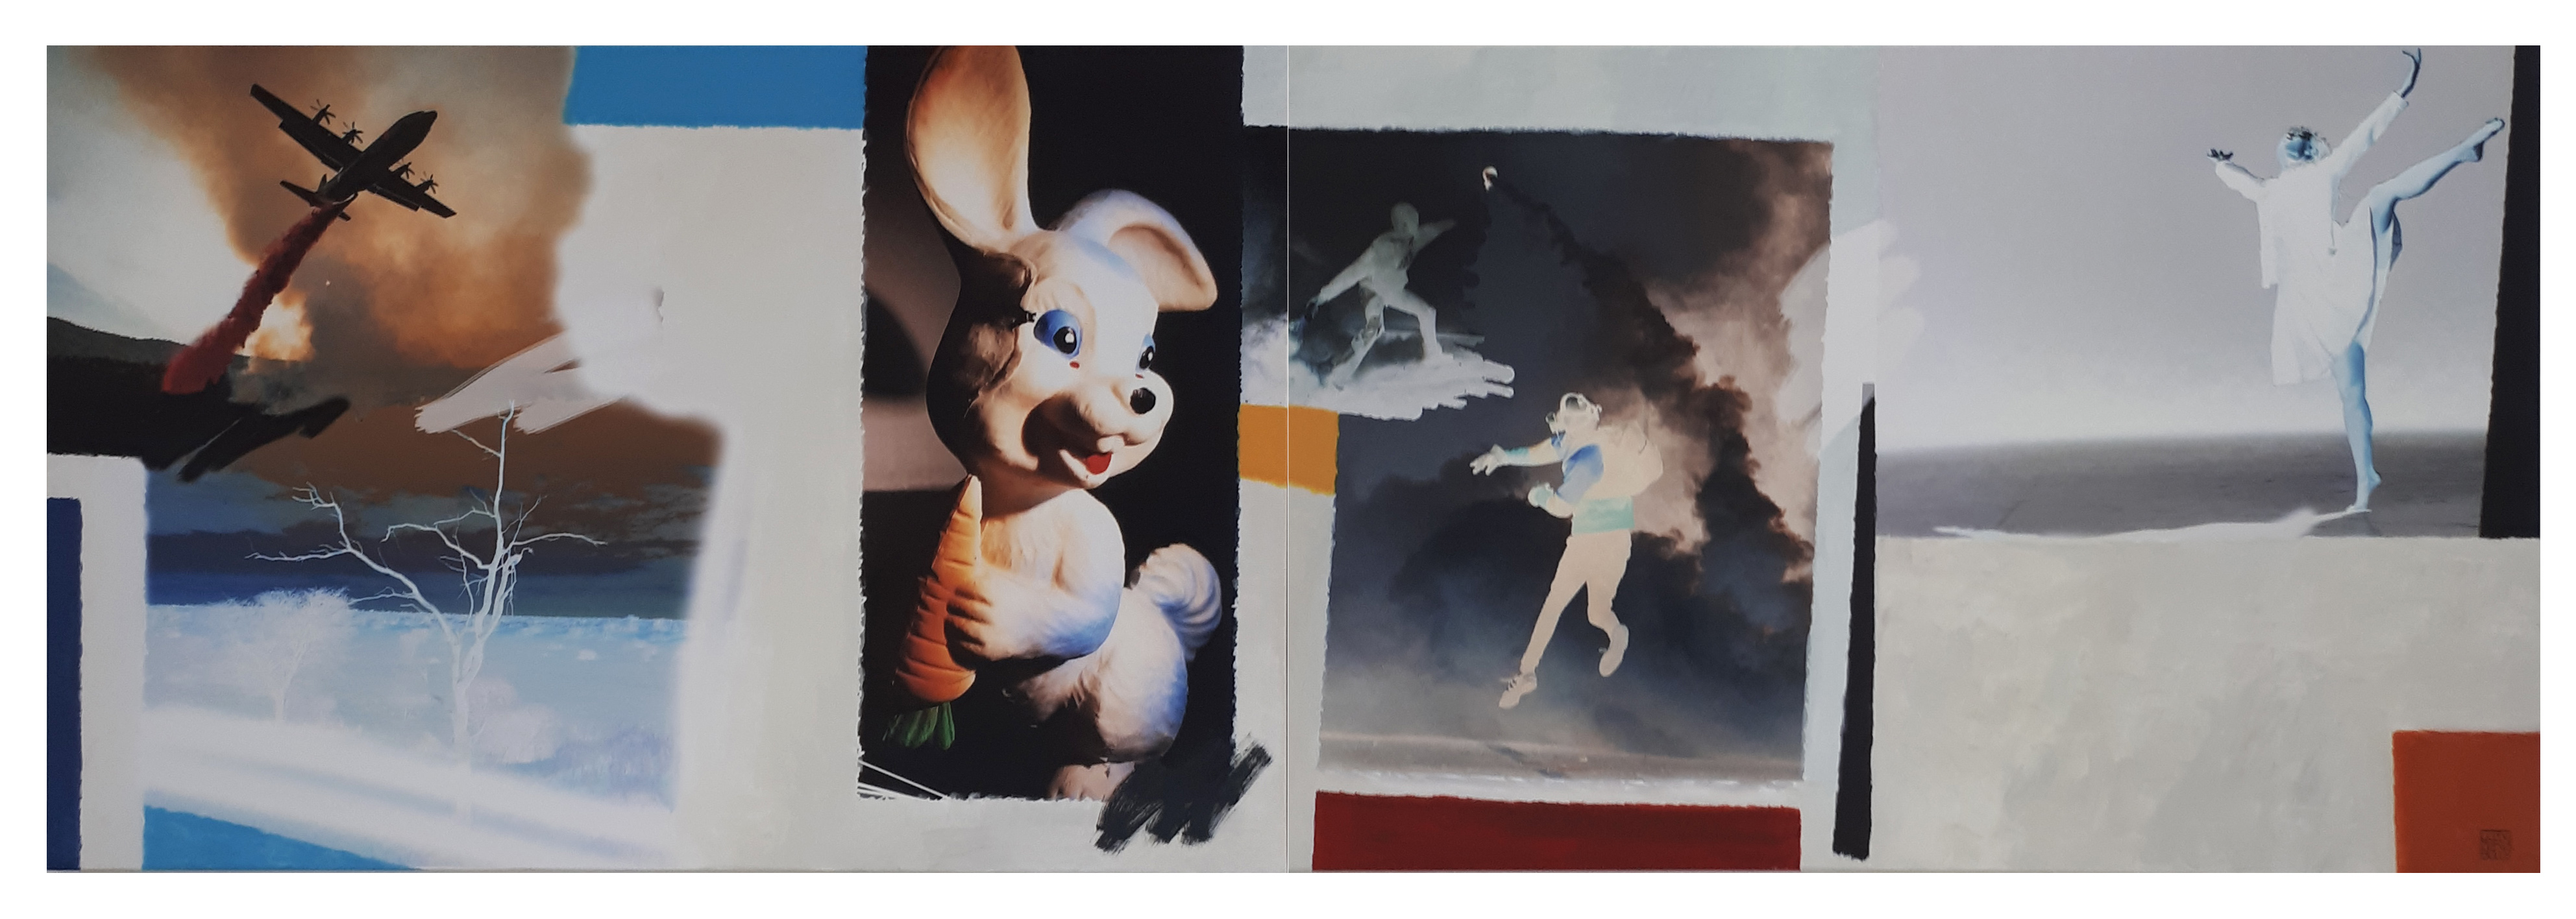
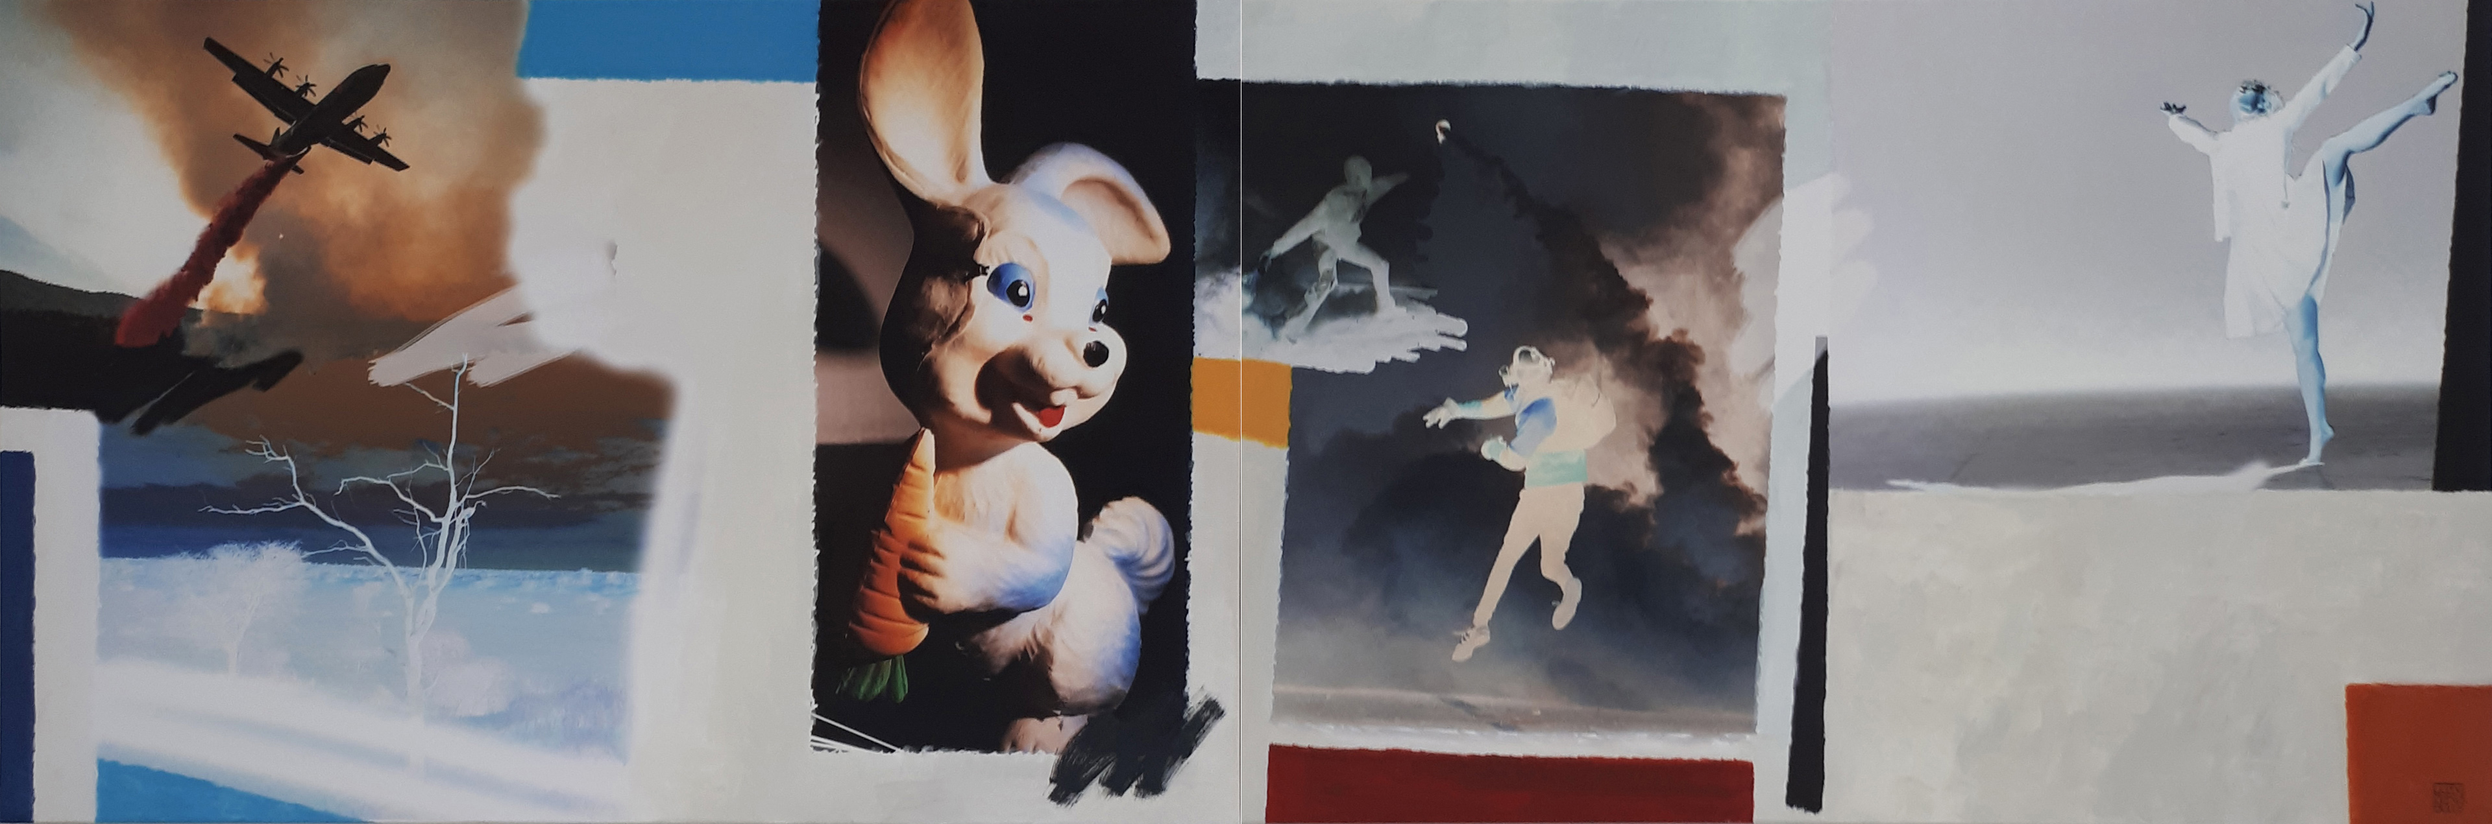
:zap: imp(2021/06): improve wallscape spacing

diff --git a/static/ss.css b/static/ss.css
@@ -177,3 +177,12 @@ position: relative;
 .home__tile:hover .home__tile-title {
     color: black;
 }
+
+.mt1 {margin-top: 1rem;}
+.mt2 {margin-top: 2rem;}
+.mt3 {margin-top: 3rem;}
+.mt3 {margin-top: 3rem;}
+.mt4 {margin-top: 4rem;}
+.mt5 {margin-top: 5rem;}
+.mt6 {margin-top: 6rem;}
+.mt7 {margin-top: 7rem;}

diff --git a/content/galleries/2021.html b/content/galleries/2021.html
@@ -134,7 +134,7 @@
   </li>
 </ul>
 
-<section class="gallery__wallscape">
+<section class="gallery__wallscape mt7">
 <a href="puppetmaster">
 <img src="/art/2021/The puppetmaster (is eating his carrot).jpg">
 </a>
